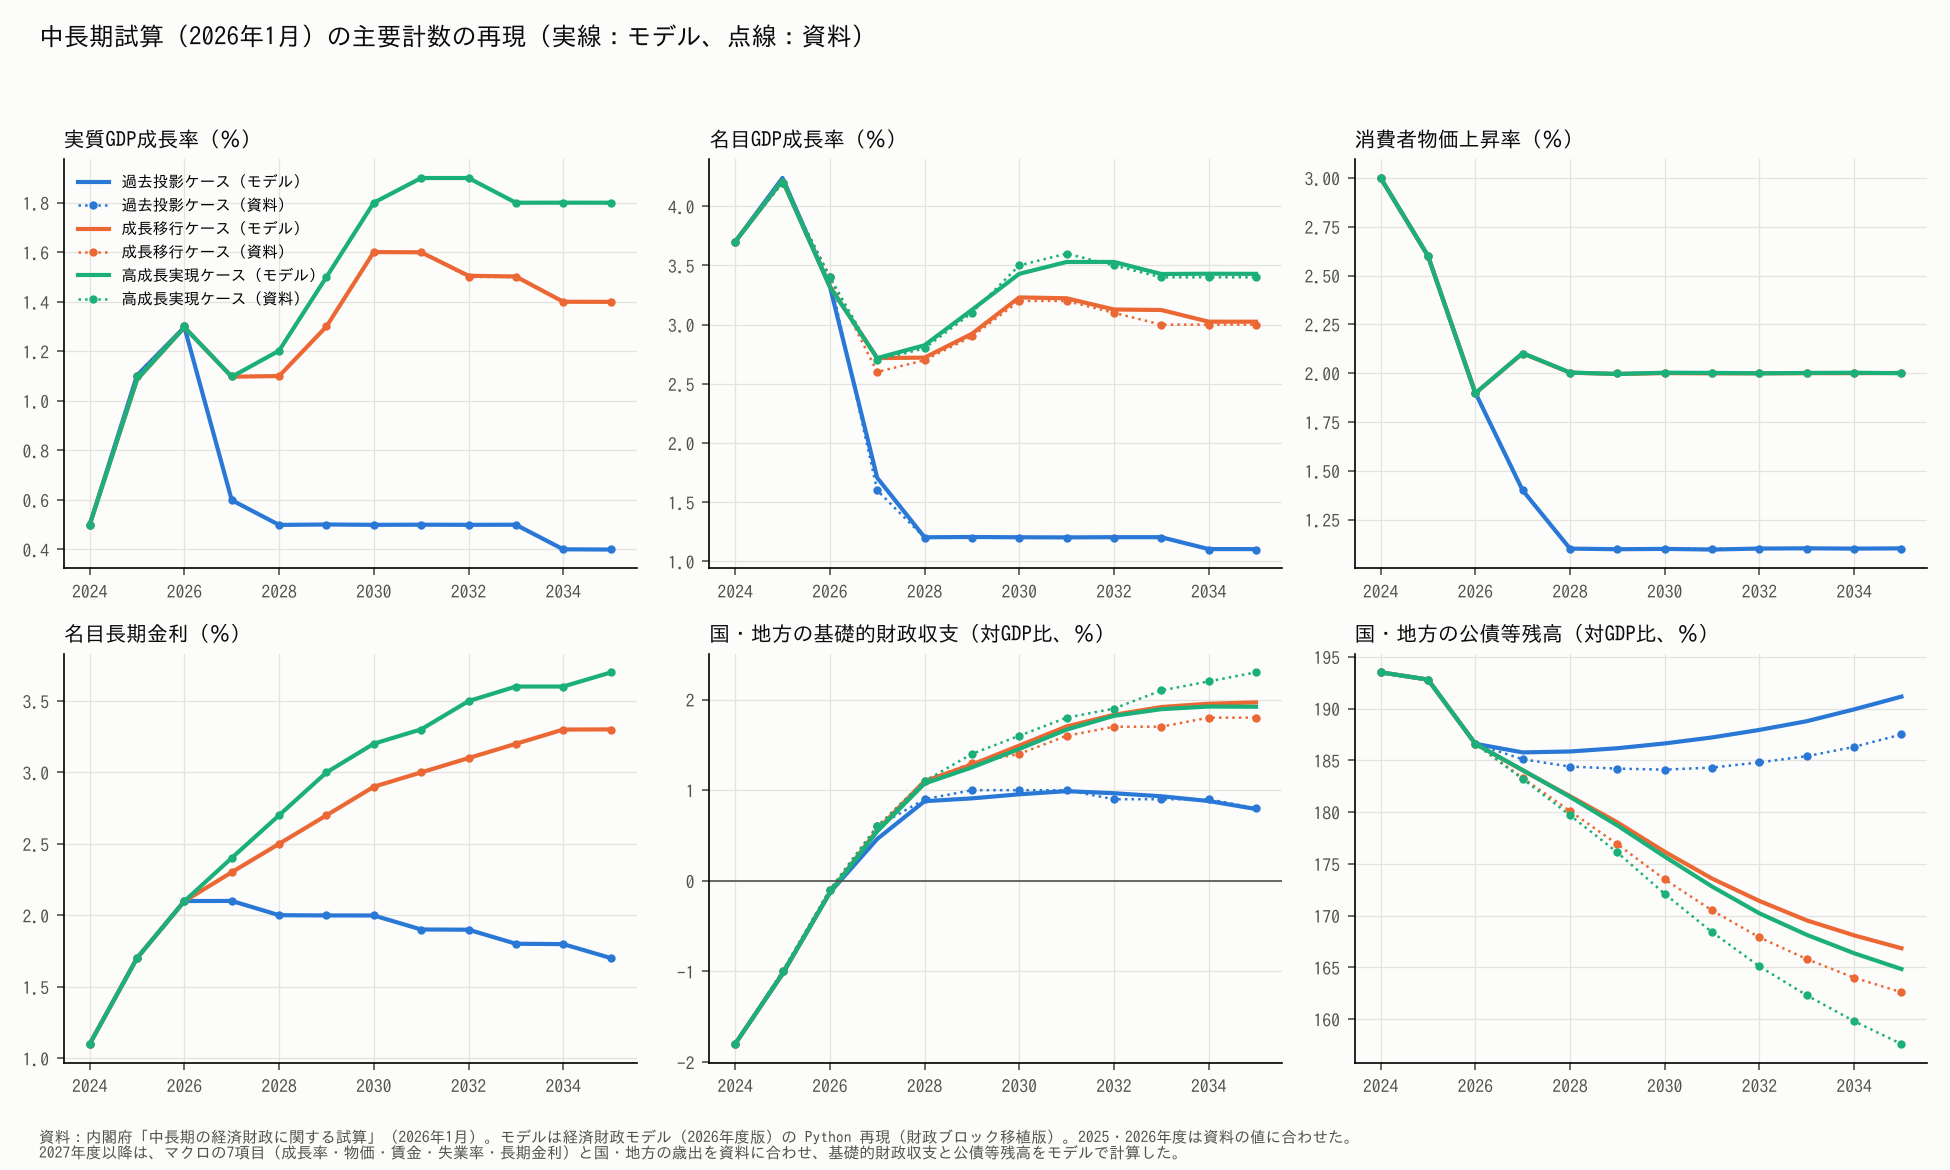
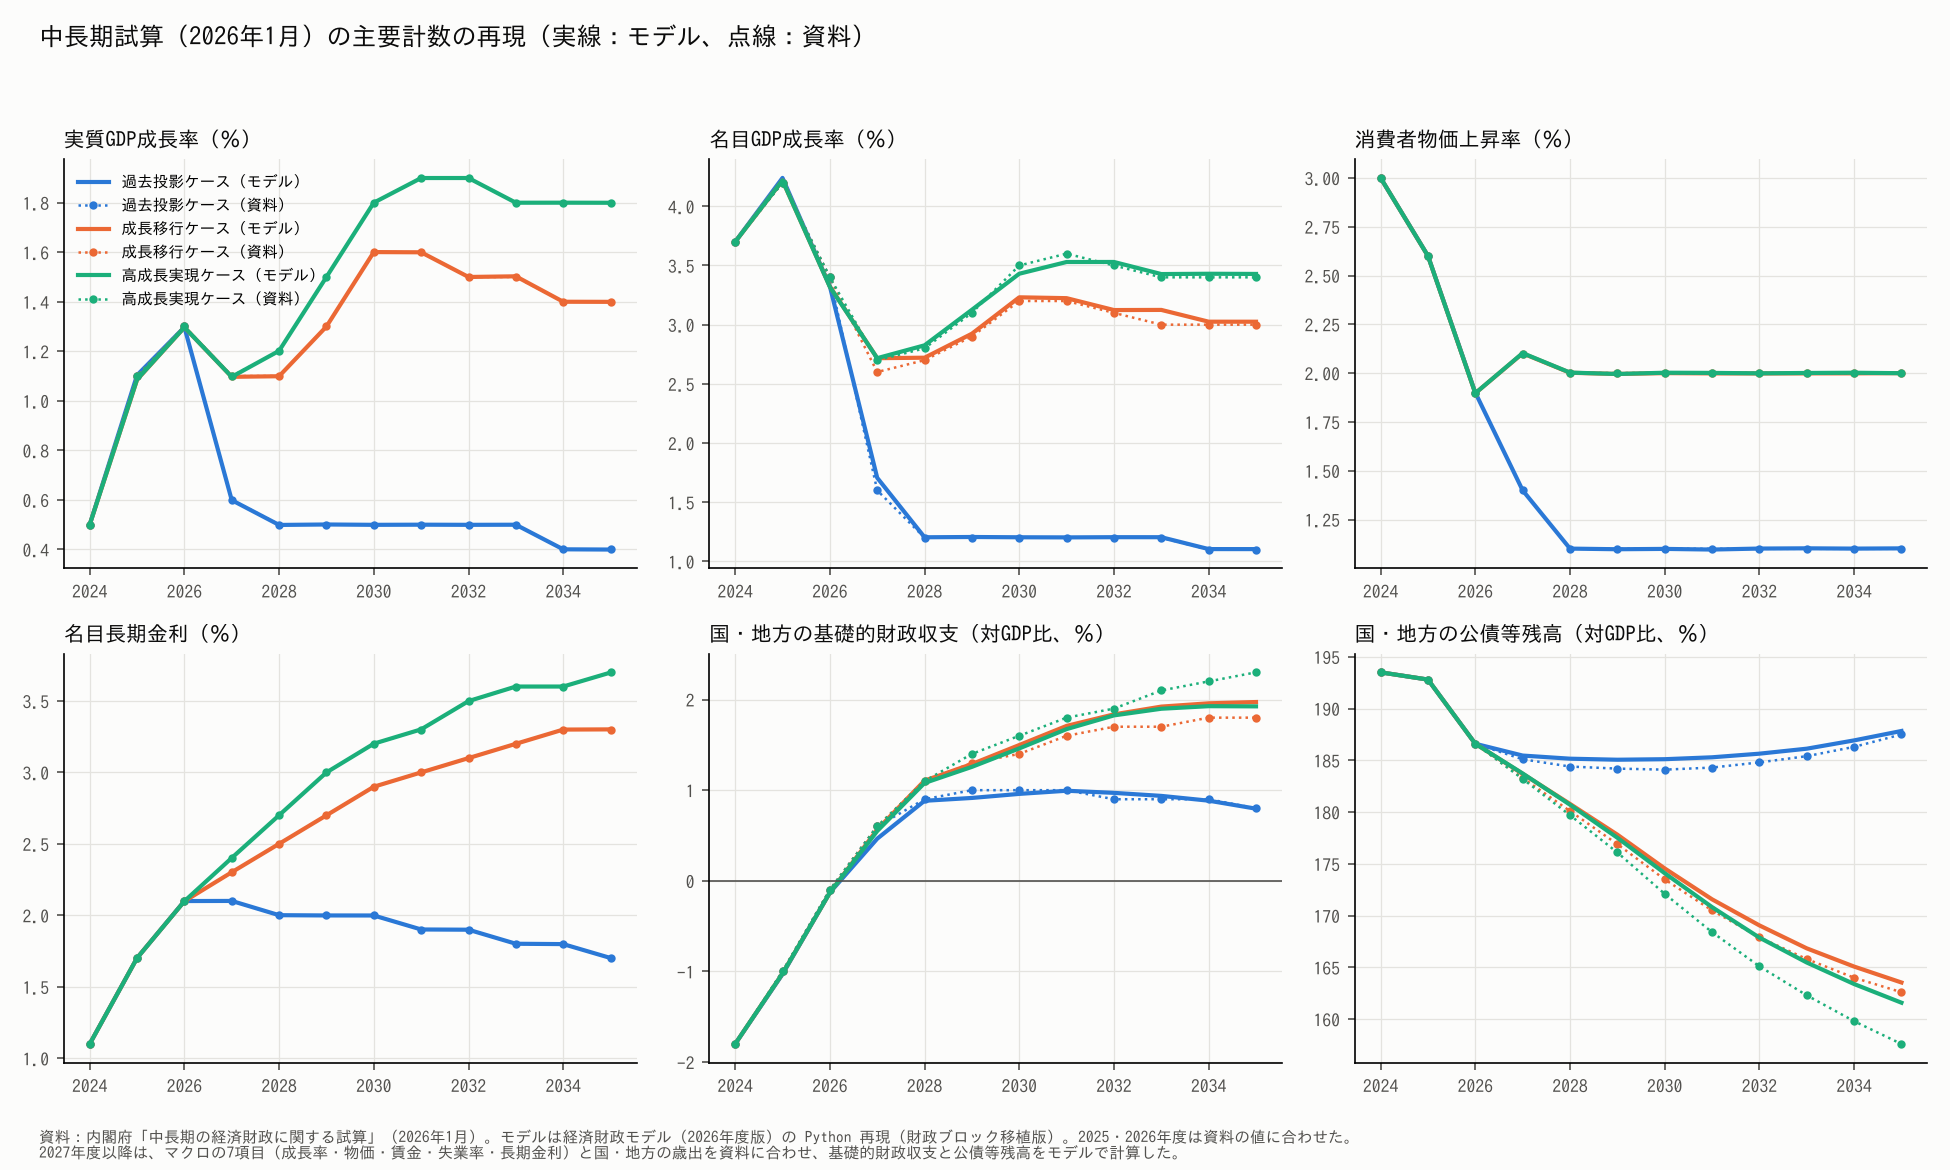
03の記事：主要計数表の公債等残高比（地方の黒字の行き先、地方債の発行倍率、交付税特会借入金）の修正に合わせて数値・図を更新
Claude-Session: https://claude.ai/code/session_01AmuYdnCxrGCtcrDwAxQ66h

Changed region(s): [[0.7692, 0.5846, 0.9846, 0.7077], [0.8308, 0.7077, 0.9846, 0.8615], [0.5231, 0.6154, 0.5538, 0.6462]]

diff --git a/内閣府の2つのマクロモデル/03_経済財政モデルをPythonで再現した.md b/内閣府の2つのマクロモデル/03_経済財政モデルをPythonで再現した.md
@@ -9,7 +9,7 @@
 結果を先に書くと、次のようになった。
 
 - **公表されている乗数表（8ケース×5年）を、実質GDP・物価・基礎的財政収支については、おおむね0.1%pt以内のずれで再現できた。** 公債等残高の対GDP比は、法人税と金利のケースでずれが残る。
-- **中長期試算（2026年1月）の主要計数表（3ケース）を、2027〜2035年度の基礎的財政収支で0.4%pt以内のずれで再現できた。** 公債等残高比は、地方の黒字が地方債の返済に回らないため資料より高く出て、2035年度に3.7〜7.2%ptずれる。 成長率・物価・金利などマクロの前提を資料に合わせ、財政は資料の予算ベースの歳出・税収などを与えて、基礎的財政収支と公債等残高をモデルで計算した。
+- **中長期試算（2026年1月）の主要計数表（3ケース）を、2027〜2035年度の基礎的財政収支で0.4%pt以内のずれで再現できた。** 公債等残高比のずれは過去投影・成長移行ケースで1.2%pt以内、高成長実現ケースで4.0%pt。 成長率・物価・金利などマクロの前提を資料に合わせ、財政は資料の予算ベースの歳出・税収などを与えて、基礎的財政収支と公債等残高をモデルで計算した。
 - **中長期試算の感応度分析3つ（TFPの低下、長期金利の上昇、政府支出の増加）も、向きと大きさはおおむね再現できた。** たとえば長期金利が0.5%pt上がると、2035年度の公債等残高比は資料で+3.2%pt、再現モデルで+3.6%ptになる。
 - **資料集を読み込む過程で、方程式リストの欠落・誤植や、公表乗数表の中の食い違いがいくつか見つかった。**
 
@@ -123,13 +123,15 @@
 
 | ケース | 名目GDP（兆円） | 基礎的財政収支（対GDP比、％） | 公債等残高（対GDP比、％） |
 |---|---:|---:|---:|
-| 過去投影 | 772.9／771.7 | 0.8／0.8 | 191.2／187.5 |
-| 成長移行 | 903.6／901.7 | 2.0／1.8 | 166.8／162.6 |
-| 高成長実現 | 924.2／924.5 | 1.9／2.3 | 164.8／157.6 |
+| 過去投影 | 772.9／771.7 | 0.8／0.8 | 187.8／187.5 |
+| 成長移行 | 903.6／901.7 | 2.0／1.8 | 163.5／162.6 |
+| 高成長実現 | 924.2／924.5 | 1.9／2.3 | 161.6／157.6 |
 
-2027〜2035年度を通して、基礎的財政収支のずれは最大で過去投影0.14%pt、成長移行0.22%pt、高成長実現0.38%ptだった。公債等残高比は資料より年0.4〜0.5%ptずつ上に離れ、2035年度に過去投影3.7%pt、成長移行4.3%pt、高成長実現7.2%pt高い。
+2027〜2035年度を通して、基礎的財政収支のずれは最大で過去投影0.14%pt、成長移行0.22%pt、高成長実現0.38%ptだった。公債等残高比のずれは過去投影1.0%pt、成長移行1.2%pt、高成長実現4.0%ptだった。
 
-公債等残高比は、前の版では過去投影・成長移行ケースで0.8%pt以内に収まっていた。上の地方債の入力ミスを直すと、地方のSNAベースの黒字が地方債の返済ではなく積立金にたまるようになり（成長移行ケースで2035年度に155兆円）、地方債が減らなくなった。前の版がよく合っていたのは、マイナスの臨時財政対策債が地方債を返していたためである。資料のように地方債が減るには、地方の黒字で地方債を繰上償還するといった、方程式リストにない扱いが要る。
+公債等残高比では、地方の黒字の行き先が効く。上の地方債の入力ミスを直すと、地方の黒字は地方債の返済ではなく積立金にたまるようになった。資料も「地方のＰＢ黒字が一部は地方債の償還計画に基づいて債務償還費に充てられる一方、残りは将来の歳出のための積立金として支出されると仮定」しているので、扱いとしては正しい。前の版で残高比がよく合っていたのは、マイナスの臨時財政対策債が地方債を返していたためだった。
+
+ただしそれだけでは地方債が資料のように減らず、2035年度の残高比が4〜7%pt高く出た。原因は2つあった。地方債の発行額に2024年度の決算÷計画（1.4倍、補正予算に伴う発行を含む）を将来もずっと掛けていたことと、交付税特会借入金の残高に毎年1兆円の誤差項が入り、償還計画どおりに減っていなかったことである。補正予算分は国の基金と同じく毎年3割ずつ残るとし、誤差項を0にすると、成長移行ケースの地方債は資料（2026→2035年度に152→124兆円）に近い形で減り、残高比のずれは上のとおり1%pt前後に戻った。
 
 ![主要計数表の再現（成長移行ケース、上段：再現モデル、下段：資料）](03_table_projection_seicho.png)
 
@@ -142,7 +144,7 @@
 まだ残る差は2つある。
 
 - 成長移行ケースの2031年度以降は、基礎的財政収支が資料より0.1〜0.2%pt高い。地方はほぼ合っていて、国が高い。再現モデルは国の歳出の内訳を2024年度の決算（補正予算を含む）から伸ばし、合計との差を「その他」で埋めている。資料は2026年度の当初予算から伸ばしている。
-- 公債等残高比が資料より高い（上記）。高成長実現ケースはさらに3.5%ptほど高い。資料はこのケースを「経済財政モデル（2018年度版）」の乗数表を成長移行ケースに足して作っているが、再現モデルでは直接計算していて、金利が高いぶん利払費が増える。
+- 高成長実現ケースの公債等残高比が資料より高い（2035年度に4.0%pt）。資料はこのケースを「経済財政モデル（2018年度版）」の乗数表を成長移行ケースに足して作っているが、再現モデルでは直接計算していて、金利が高いぶん利払費が増える。
 
 計算の途中では、短期金利をテイラー・ルールのまま動かすと3.4%まで上がり、長期金利（2%前後）を上回っていた。超長期債の利率は長期金利と短期金利の差で決まるので、利率が下がって利払費が小さく出ていた。短期金利を長期金利との差で決めるように直すと、公債等残高比のずれは3〜4%ptから1%pt前後まで縮んだ。
 
@@ -160,7 +162,6 @@
 - 年金特例国債・復興債・GX経済移行債・半導体・AI債の積み上げを移植する。
 - 既発の地方債の償還予定を統計で置き換える。
 - 法人税のケースの公債等残高比の差の原因を調べる。
-- 地方の黒字の行き先（積立金か地方債の返済か）を決め、主要計数表の公債等残高比の差を詰める。
 - 国の歳出の内訳を2026年度の当初予算に置き直し、成長移行ケースの後半の基礎的財政収支の差を詰める。
 
 作業の計画はリポジトリの `docs/plan_faithful_port.md` にまとめている。
